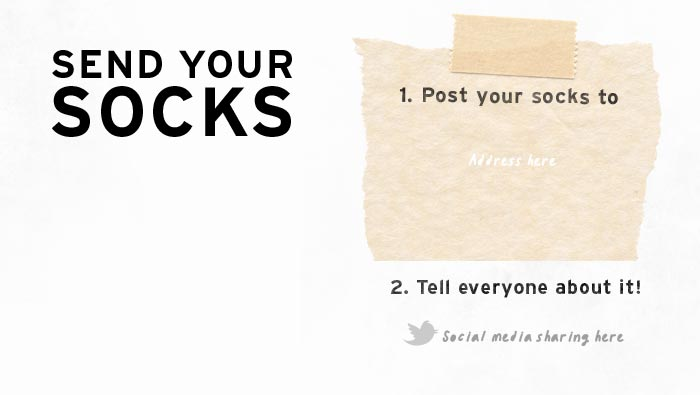
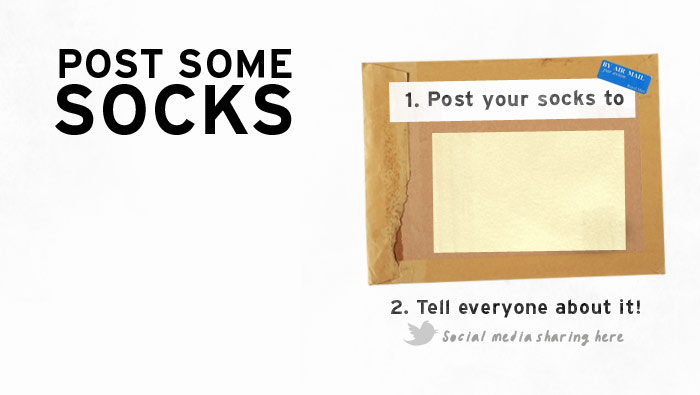
updated site from Sarah's feedback

Changed region(s): [[0.51, 0.0304, 0.96, 0.8203], [0.06, 0.1215, 0.42, 0.3646]]

diff --git a/app/assets/stylesheets/application.css b/app/assets/stylesheets/application.css
@@ -17,7 +17,7 @@ body {
 }
 
 /*========== re-used styles ==========*/
-#video, #send_and_buy, #find_out_more a  {
+#video, #find_out_more a  {
 	box-shadow: 0px 0px 20px #000;
 	-moz-box-shadow: 0px 0px 20px #000;
 	-webkit-box-shadow: 0px 0px 20px #000;	
@@ -37,20 +37,20 @@ a#amnesty_logo {
 	text-indent: -9000em;
 	display: block;
 	float: left;
-	width: 81px;
-	height: 31px;
-	margin: 40px 0 0 0;
+	width: 120px;
+	height: 50px;
+	margin: 36px 0 0 0;
 	
 }
 #title {
-	margin: 40px 0px 20px 82px;
+	margin: 40px 0px 20px 35px;
 	text-transform: uppercase;
 	background: url(/assets/logo.png) no-repeat 0 0;
 	display: block;
 	text-indent: -9000em;
 	float: left;
-	width: 380px;
-	height: 40px;
+	width: 420px;
+	height: 43px;
 }
 .hl_es #title {
 	background-image: url(/assets/logo.es.png);
@@ -59,8 +59,8 @@ a#amnesty_logo {
 
 
 #language_toggle {
-	float: right;
-	margin-top: 50px;
+	float: left;
+	margin: 50px 0 0 35px;
 }
 
 #language_toggle a {
@@ -102,21 +102,24 @@ a#amnesty_logo {
 	position: absolute;
 	top: 15px;
 	right: 15px;
-	color: #888;
+	font-size: 18px;
+	color: #000;
+	font-weight: bold;
+	text-transform: uppercase;
 }
 
 /*========== Share this ==========*/
 
 #share_this_wrapper {
-	margin-top: 20px;
+	margin-top: 50px;
   position:relative;
   z-index:5;
 }
 #share_this {
 	width: 100px;
-	height: 160px;
-	background: url(/assets/share_this.png) no-repeat;
-	padding: 80px 0 0 20px;
+	height: 120px;
+	background: #000 url(/assets/share_this.png) no-repeat -5px -5px;
+	padding: 55px 0 0 20px;
   position:absolute;
 	left: -150px;
   z-index:5;
@@ -172,7 +175,7 @@ h2.call_to_action a {
 	display: block;
 	text-indent: -9000em;
 	background: url(/assets/send_and_buy.png) no-repeat 0 0;
-	width: 219px;
+	width: 200px;
 	height: 93px;	
 }
 .hl_es h2.call_to_action a {
@@ -181,7 +184,7 @@ h2.call_to_action a {
 
 h2#buy_socks a {
 	background-position: top right;
-	width: 180px;
+	width: 190px;
 }
 h2#buy_socks a:hover {
 
@@ -233,11 +236,27 @@ h2#buy_socks a:hover {
 div.send_socks_info {
   float: left;
   width: 250px;
-  margin: 160px 0 0 35px;
+  margin: 150px 0 0 35px;
 }
 div.send_socks_info p {
   font-size: 14px;
 }
+
+div.post_socks_address {
+	position: absolute;
+	top: 155px;
+	right: 140px;
+  
+}
+
+div.send_socks_tag {
+  	position: absolute;
+	top: 90px;
+	right: 60px;
+	float: left;
+	width: 170px;
+}
+
 
 /*========== Twitter stream ==========*/
 
@@ -254,7 +273,7 @@ div.send_socks_info p {
 	margin: 0 0 0 13px;
 	text-indent: -9000em;
 	height: 80px;
-	width: 180px;
+	width: 190px;
 	background: url(/assets/tweet_stream_title.png) no-repeat 0 -6px;
 }
 .hl_es #tweet_stream_title {
